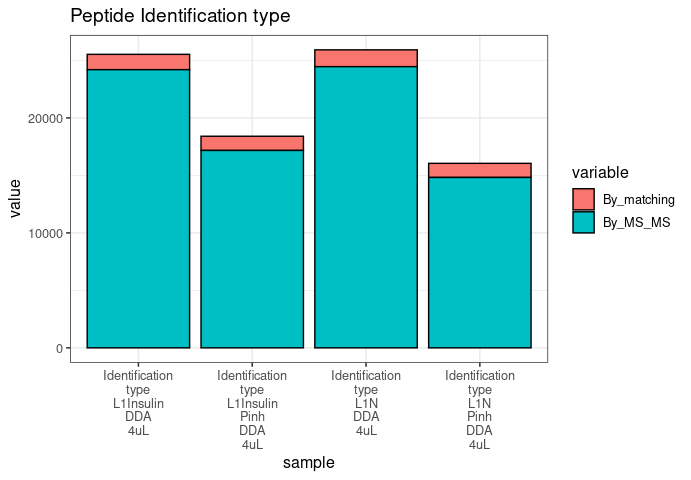
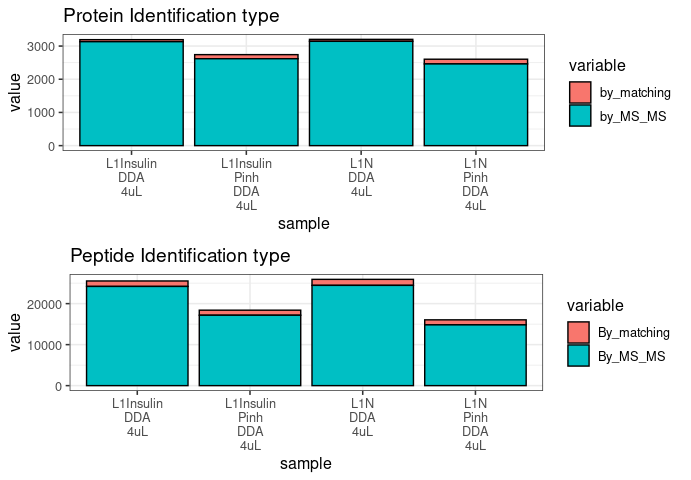
updates

diff --git a/README.md b/README.md
@@ -115,8 +115,7 @@ PlotiRTScore(evidence_irt)
 <img src="man/figures/README-irt_peps2-1.png" width="100%" />
 
 ``` r
-PlotIdentificationType(peptides, long_names = TRUE, sep_names = '_')
-#> Using sample as id variables
+PlotIdentificationType(peptides,proteinGroups, long_names = TRUE, sep_names = '_')
 ```
 
 <img src="man/figures/README-IdentificationType-1.png" width="100%" />
